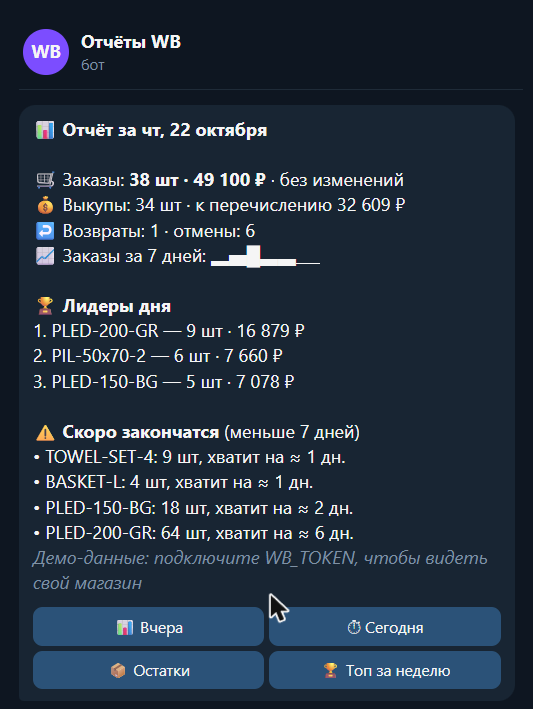
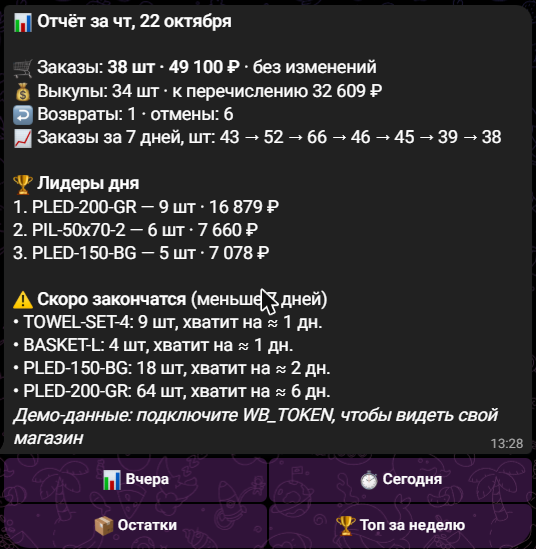
Проверка в Telegram: заказы по дням числами, скриншоты из Telegram

diff --git a/src/report.ts b/src/report.ts
@@ -2,7 +2,6 @@ import {
   changePercent,
   forecastStocks,
   ordersByDay,
-  sparkline,
   summarizeDay,
   topArticles,
   type StockForecast
@@ -54,7 +53,8 @@ export function createReports(source: WbSource, options: ReportOptions, now: () 
       `🛒 Заказы: <b>${current.ordersCount} шт · ${money(current.ordersSum)}</b>${trend(change)}${change ? ' к предыдущему дню' : ''}`,
       `💰 Выкупы: ${current.salesCount} шт · к перечислению ${money(current.forPay)}`,
       `↩ Возвраты: ${current.returnsCount} · отмены: ${current.cancels}`,
-      `📈 Заказы за 7 дней: ${sparkline(ordersByDay(orders, week))}`
+      // Числа, а не символы-столбики: блочные символы ▁▃▅ в Telegram Web и на части устройств отображаются криво
+      `📈 Заказы за 7 дней, шт: ${ordersByDay(orders, week).join(' → ')}`
     ];
 
     if (top.length > 0) {
